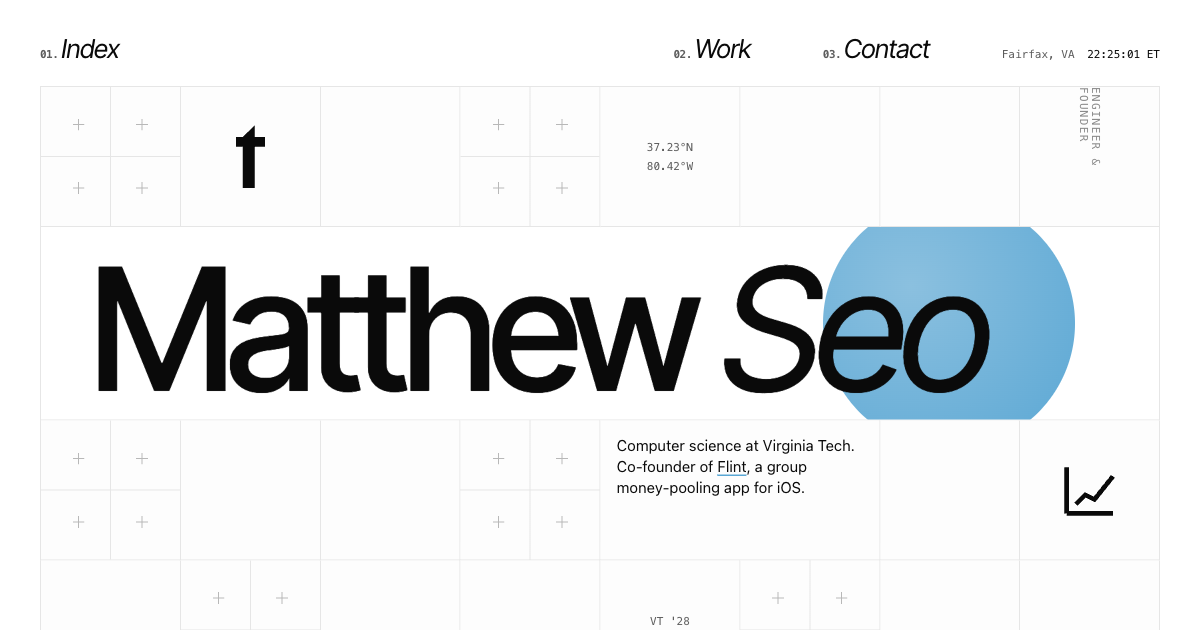
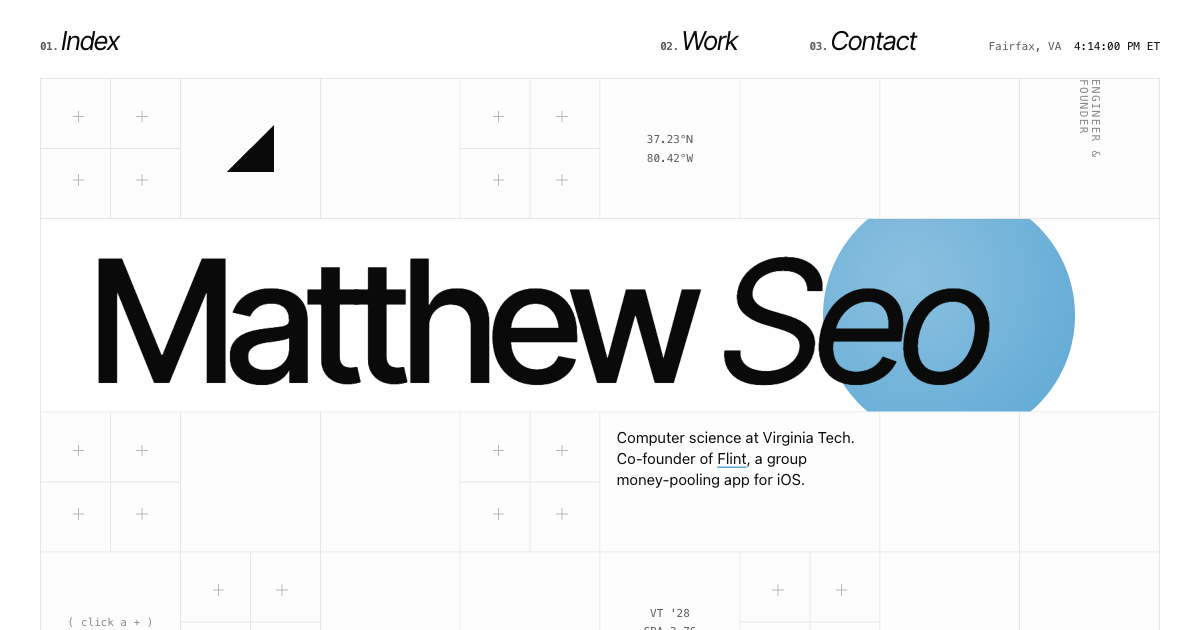
Swap Flint T for the triangle mark, wordmark on the Flint tile, refresh OG image

diff --git a/index.html b/index.html
@@ -31,7 +31,7 @@
   <!-- hero: hairline cell grid -->
   <section class="hero" aria-label="Intro">
     <div class="cell plus"></div>
-    <div class="cell"><img class="icon" src="assets/flint-t.svg" alt="Flint logo" width="641" height="1384"></div>
+    <div class="cell"><img class="icon" src="assets/flint-mark.svg" alt="Flint logo" width="100" height="100"></div>
     <div class="cell"></div>
     <div class="cell plus"></div>
     <div class="cell mono-stack" aria-hidden="true"><span>37.23°N</span><span>80.42°W</span></div>
@@ -62,7 +62,7 @@
   <!-- index strip -->
   <nav class="strip" aria-label="Index">
     <a class="tile" href="#flint" data-label="Flint">
-      <span class="big">Flint</span><span class="dot night"></span>
+      <img class="wm" src="assets/flint-wordmark.svg" alt="Flint"><span class="dot night"></span>
     </a>
     <a class="tile" href="#eduai" data-label="EduAI">
       <span class="big">Edu</span><span class="dot bloom"></span>

diff --git a/style.css b/style.css
@@ -75,7 +75,7 @@ img { display: block; max-width: 100%; }
     linear-gradient(var(--line), var(--line)) 0 50% / 100% 1px no-repeat,
     #fdfdfd;
 }
-.icon { width: 21%; height: auto; }
+.icon { width: 34%; height: auto; }
 .mono-stack { font: 11px/1.7 var(--mono); color: var(--text-2); display: flex; flex-direction: column; align-items: center; justify-content: center; }
 .vlabel {
   writing-mode: vertical-rl;
@@ -155,6 +155,7 @@ img { display: block; max-width: 100%; }
   letter-spacing: -0.06em;
   white-space: nowrap;
 }
+.tile .wm { position: absolute; left: 6%; bottom: 14%; width: 56%; height: auto; }
 .tile .dot { position: absolute; width: 46%; aspect-ratio: 1; border-radius: 50%; right: -12%; top: 50%; transform: translateY(-50%); }
 .tile .dot.night { background: var(--night); }
 .tile .dot.bloom { background: radial-gradient(circle at 35% 35%, var(--bloom-2), var(--bloom-1)); }
